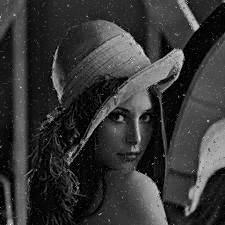
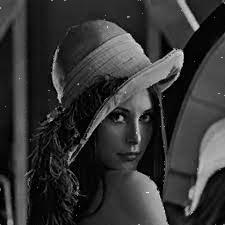
change mean to median

diff --git a/main.py b/main.py
@@ -39,39 +39,30 @@ def apply_impulsive_noise(image_data: np.ndarray, amplitude, probability) -> np.
           image_data[i][j] = (image_data[i][j] + amplitude) % 255
   return image_data
 
-def get_mean(x: np.ndarray, i, j):
+def get_median(x: np.ndarray, i, j):
   """
   Calculate mean of pixel accounting for boundaries
   """
-  mean = 0
-  count = 1
+  med_vals = []
   if i > 0 and j > 0:
-    mean += x[i-1][j-1]
-    count += 1
+    med_vals.append(x[i-1][j-1])
   if i > 0:
-    mean += x[i-1][j]
-    count += 1
+    med_vals.append(x[i-1][j])
   if i > 0 and j < len(x[0]) - 1:
-    mean += x[i-1][j+1]
-    count += 1
+    med_vals.append(x[i-1][j+1])
   if i < len(x) - 1 and j < len(x[0]) - 1:
-    mean += x[i+1][j+1]
-    count += 1
+    med_vals.append(x[i+1][j+1])
   if i < len(x) - 1:
-    mean += x[i+1][j]
-    count += 1
+    med_vals.append(x[i+1][j])
   if i < len(x) - 1 and j > 0:
-    mean += x[i+1][j-1]
-    count += 1
+    med_vals.append(x[i+1][j-1])
   if j < len(x[0]) - 1:
-    mean += x[i][j+1]
-    count += 1
+    med_vals.append(x[i][j+1])
   if j > 0:
-    mean += x[i][j-1]
-    count += 1
-  mean += x[i][j]
-  mean /= count
-  return mean
+    med_vals.append(x[i][j-1])
+  med_vals.append(x[i][j])
+  med_vals.sort()
+  return med_vals[len(med_vals) // 2]
 
 def apply_median_filter(x: np.ndarray):
   """
@@ -81,7 +72,7 @@ def apply_median_filter(x: np.ndarray):
   for i in range(len(x)):
     for j in range(len(x[0])):
 
-      filtered[i][j] = get_mean(x, i, j)
+      filtered[i][j] = get_median(x, i, j)
   return filtered
 
 def apply_rudimentary_filter(x: np.ndarray, beta):
@@ -92,7 +83,7 @@ def apply_rudimentary_filter(x: np.ndarray, beta):
   for i in range(len(x)):
     for j in range(len(x[0])):
 
-      m = get_mean(x, i, j)
+      m = get_median(x, i, j)
       if filtered[i][j] > m + beta:
         filtered[i][j] = m + beta
       elif filtered[i][j] < m - beta:
@@ -111,7 +102,7 @@ def apply_filter(x: np.ndarray, beta, delta):
   for i in range(len(x)):
     for j in range(len(x[0])):
 
-      m = get_mean(x, i, j)
+      m = get_median(x, i, j)
       filtered[i][j] = m - ((beta + delta) / (2 * delta)) * abs( m + beta - x[i][j] ) \
                      + ((beta + delta) / (2 * delta)) * abs( m - beta - x[i][j]) \
                      - (beta) / (2 * delta) * abs(m - beta - delta - x[i][j]) \
